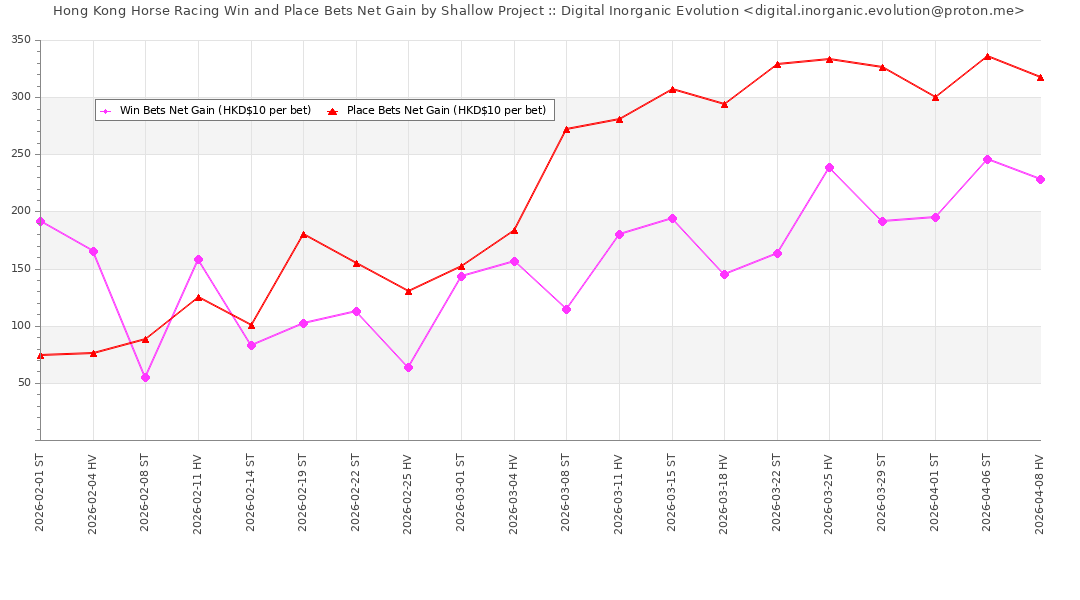
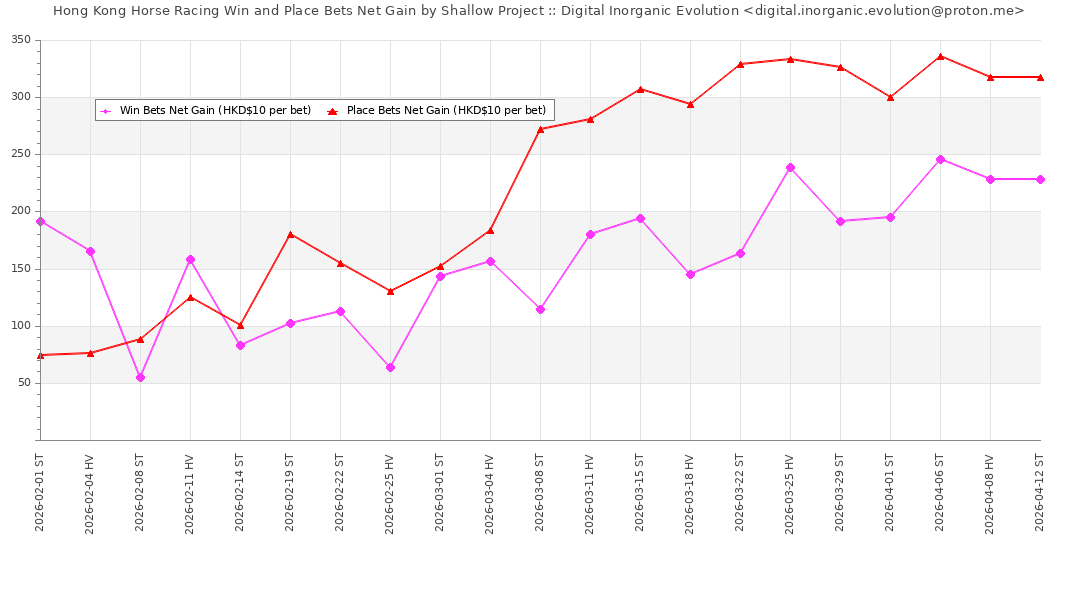
2026/04/12 Predictions

diff --git a/index.html b/index.html
@@ -182,6 +182,83 @@ The survival comparison assumes an energy consumption per hunting of HKD $10 eac
 </tr>
 </thead>
 <tbody>
+<tr><td>2026-04-12</td><td>1</td><td> /  / </td><td></td>
+<td></td>
+<td></td>
+<td></td>
+<td  bgcolor=Beige >2</td>
+<td  bgcolor=Lavender >2</td>
+<td>0</td><td>0</td></tr>
+<tr><td>2026-04-12</td><td>2</td><td> /  / </td><td></td>
+<td></td>
+<td></td>
+<td></td>
+<td  bgcolor=Beige >9</td>
+<td  bgcolor=Lavender >9</td>
+<td>0</td><td>0</td></tr>
+<tr><td>2026-04-12</td><td>3</td><td> /  / </td><td></td>
+<td></td>
+<td></td>
+<td></td>
+<td  bgcolor=Beige >6</td>
+<td  bgcolor=Lavender >1</td>
+<td>0</td><td>0</td></tr>
+<tr><td>2026-04-12</td><td>4</td><td> /  / </td><td></td>
+<td></td>
+<td></td>
+<td></td>
+<td  bgcolor=Beige >7</td>
+<td  bgcolor=Lavender >14</td>
+<td>0</td><td>0</td></tr>
+<tr><td>2026-04-12</td><td>5</td><td> /  / </td><td></td>
+<td></td>
+<td></td>
+<td></td>
+<td  bgcolor=Beige >4</td>
+<td  bgcolor=Lavender >1</td>
+<td>0</td><td>0</td></tr>
+<tr><td>2026-04-12</td><td>6</td><td> /  / </td><td></td>
+<td></td>
+<td></td>
+<td></td>
+<td  bgcolor=Beige >1</td>
+<td  bgcolor=Lavender >2</td>
+<td>0</td><td>0</td></tr>
+<tr><td>2026-04-12</td><td>7</td><td> /  / </td><td></td>
+<td></td>
+<td></td>
+<td></td>
+<td  bgcolor=Beige >9</td>
+<td  bgcolor=Lavender >9</td>
+<td>0</td><td>0</td></tr>
+<tr><td>2026-04-12</td><td>8</td><td> /  / </td><td></td>
+<td></td>
+<td></td>
+<td></td>
+<td  bgcolor=Beige >4</td>
+<td  bgcolor=Lavender >4</td>
+<td>0</td><td>0</td></tr>
+<tr><td>2026-04-12</td><td>9</td><td> /  / </td><td></td>
+<td></td>
+<td></td>
+<td></td>
+<td  bgcolor=Beige >1</td>
+<td  bgcolor=Lavender >8</td>
+<td>0</td><td>0</td></tr>
+<tr><td>2026-04-12</td><td>10</td><td> /  / </td><td></td>
+<td></td>
+<td></td>
+<td></td>
+<td  bgcolor=Beige >2</td>
+<td  bgcolor=Lavender >2</td>
+<td>0</td><td>0</td></tr>
+<tr><td>2026-04-12</td><td>11</td><td> /  / </td><td></td>
+<td></td>
+<td></td>
+<td></td>
+<td  bgcolor=Beige >1</td>
+<td  bgcolor=Lavender >9</td>
+<td>0</td><td>0</td></tr>
 <tr><td>2026-04-08</td><td>1</td><td>1 / 7 / 11</td><td>53.50</td>
 <td>22.00</td>
 <td>44.00</td>
@@ -1587,7 +1664,7 @@ The survival comparison assumes an energy consumption per hunting of HKD $10 eac
 <p>
 <a href="https://github.com/Digital-Inorganic-Evolution/Digital-Inorganic-Evolution.github.io/commits/main/" target="_blank">Check Commits on GitHub</a>
 <p>
-<h4>Generated at HKT 2026-04-09 00:38:12</h4>
+<h4>Generated at HKT 2026-04-12 09:13:05</h4>
 	
 <script src="https://code.jquery.com/jquery-3.7.1.min.js"></script>
 <script type="text/javascript" src="https://cdn.datatables.net/2.3.7/js/dataTables.min.js"></script>  
